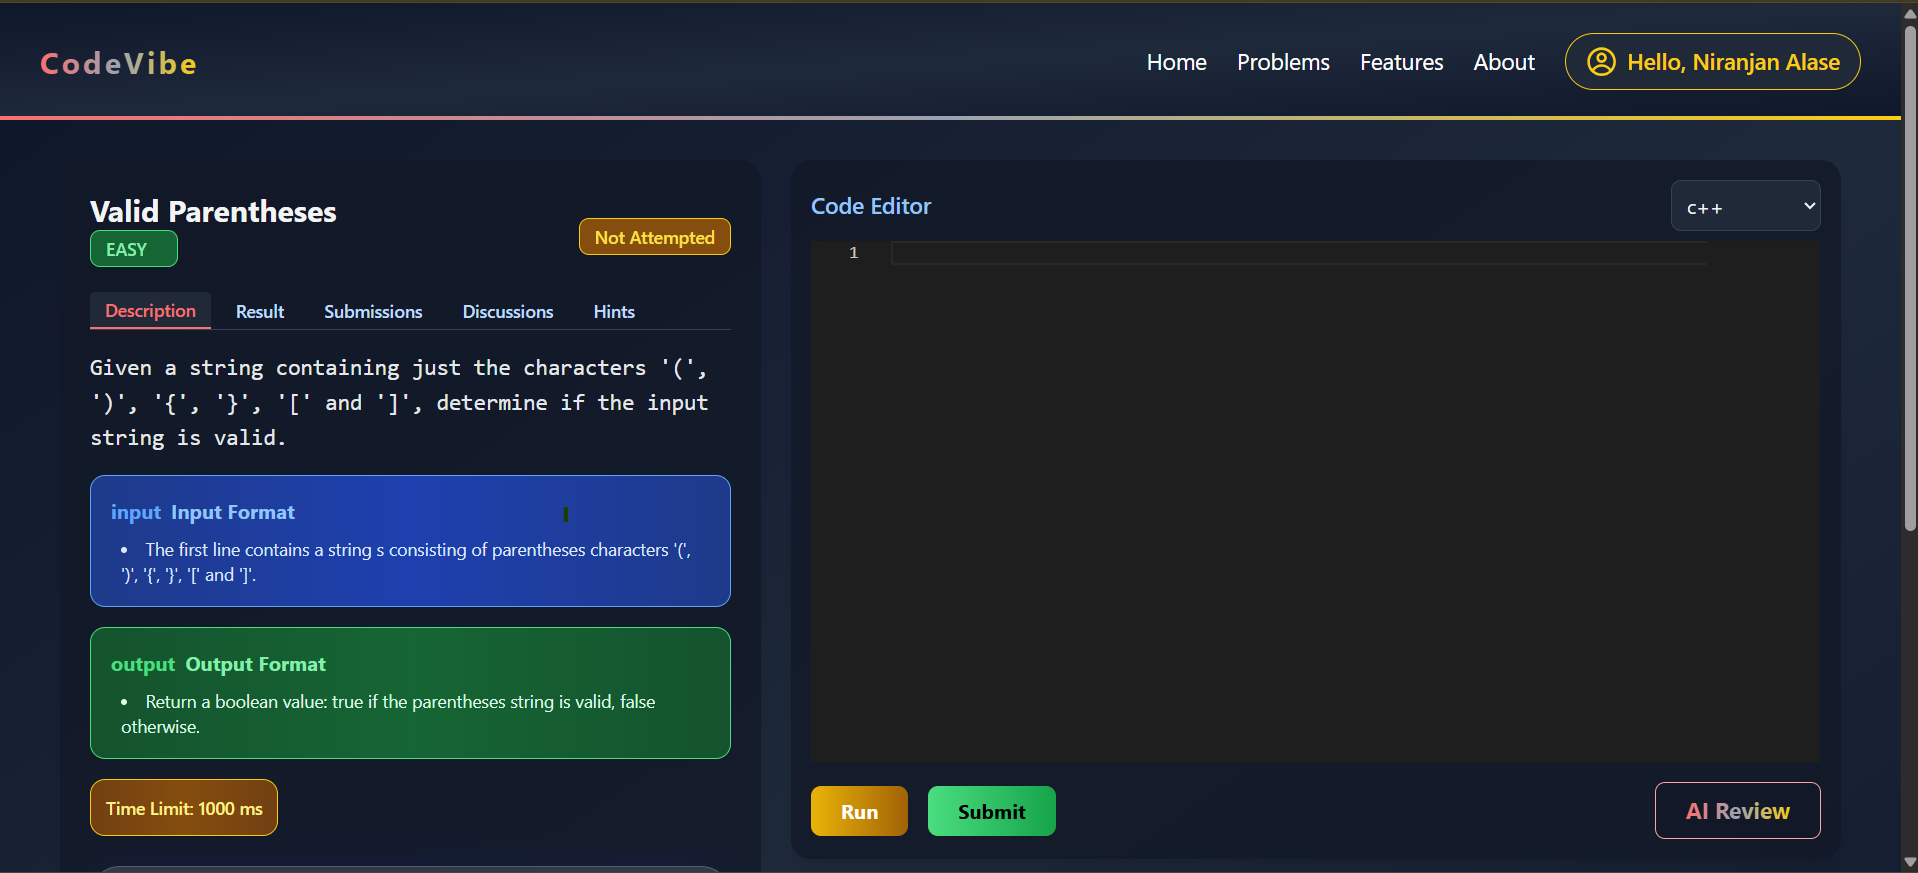
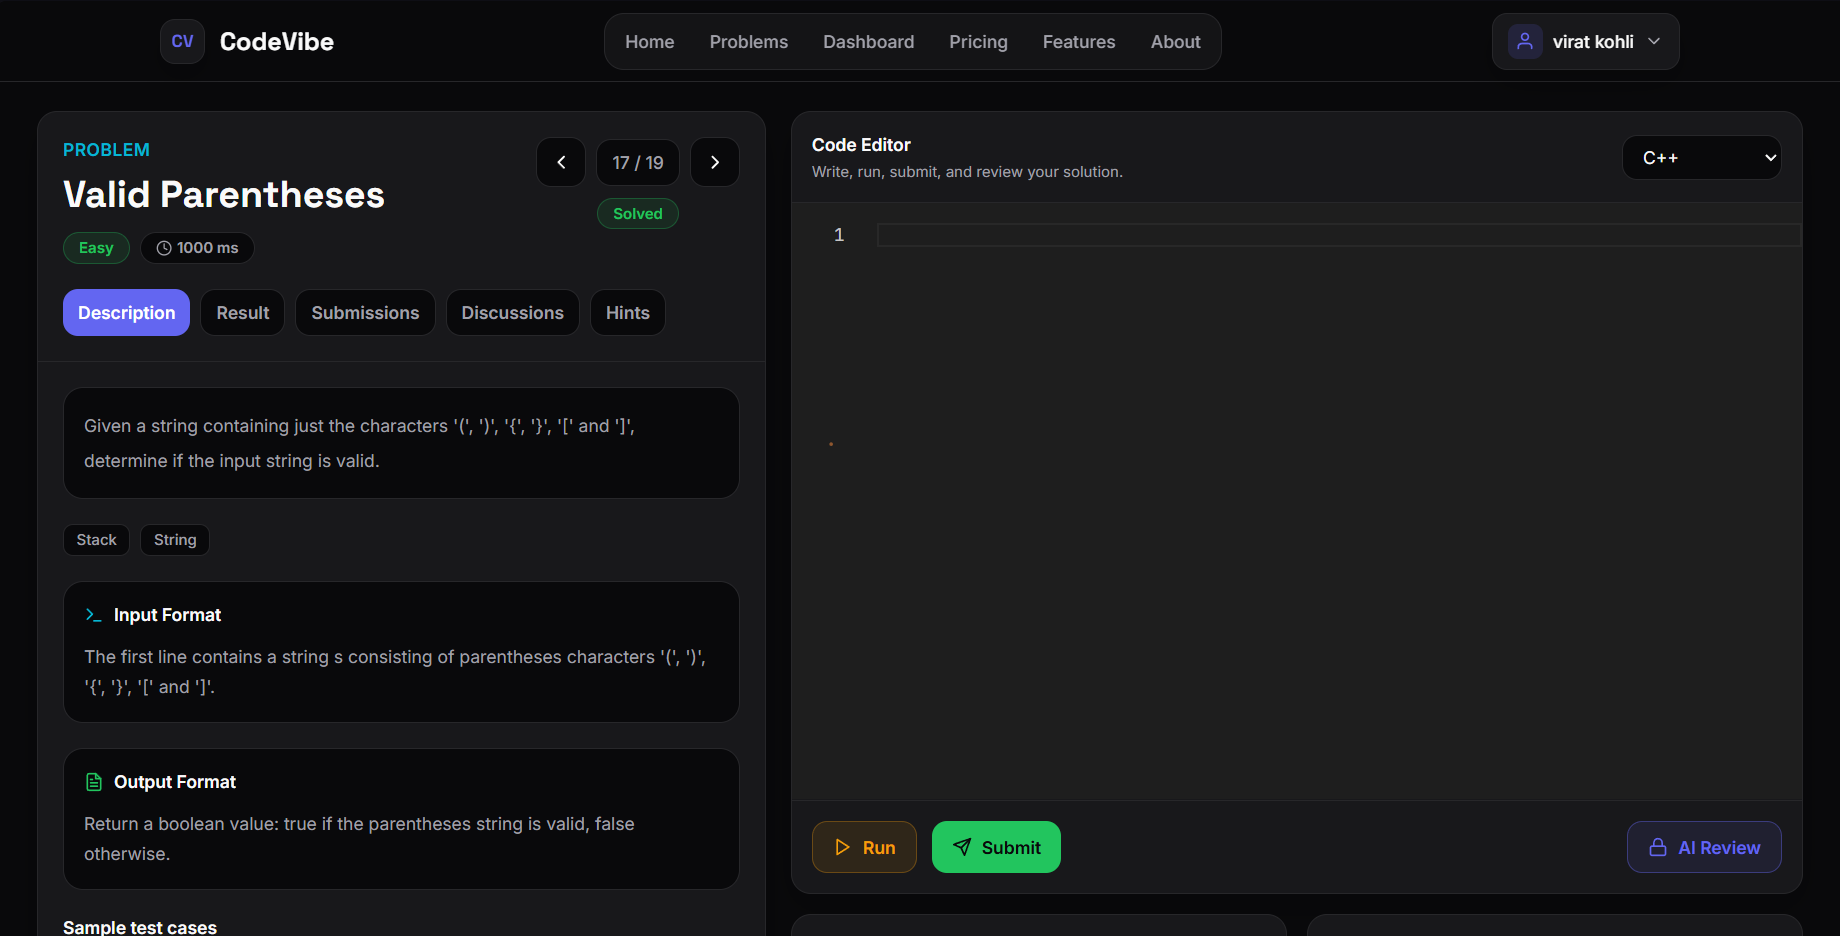
modifies ss of new design

diff --git a/README.md b/README.md
@@ -30,10 +30,13 @@ It allows users to solve coding problems, run and submit code in multiple langua
 ## 🖼 Screenshots
 
 <p align="center">
-  <img src="assets/HomePage.png" width="700" alt="Home Page"/>
-  <img src="assets/SolveProblem.png" width="700" alt="Problem Page"/>
-  <img src="assets/Dashboard.png" width="700" alt="Code Editor"/>
-  <img src="assets/Leaderboard.png" width="700" alt="Code Editor"/>
+  <img src="assets/homePage.png" width="700" alt="Home Page"/>
+  <img src="assets/solveProblem.png" width="700" alt="Problem Page"/>
+  <img src="assets/dashboard.png" width="700" alt="Code Editor"/>
+  <img src="assets/dashboard2.png" width="700" alt="Code Editor"/>
+  <img src="assets/pricing.png" width="700" alt="Code Editor"/>
+  <img src="assets/problemSet.png" width="700" alt="Code Editor"/>
+  <img src="assets/profile.png" width="700" alt="Code Editor"/>
 </p>
 
 ---
